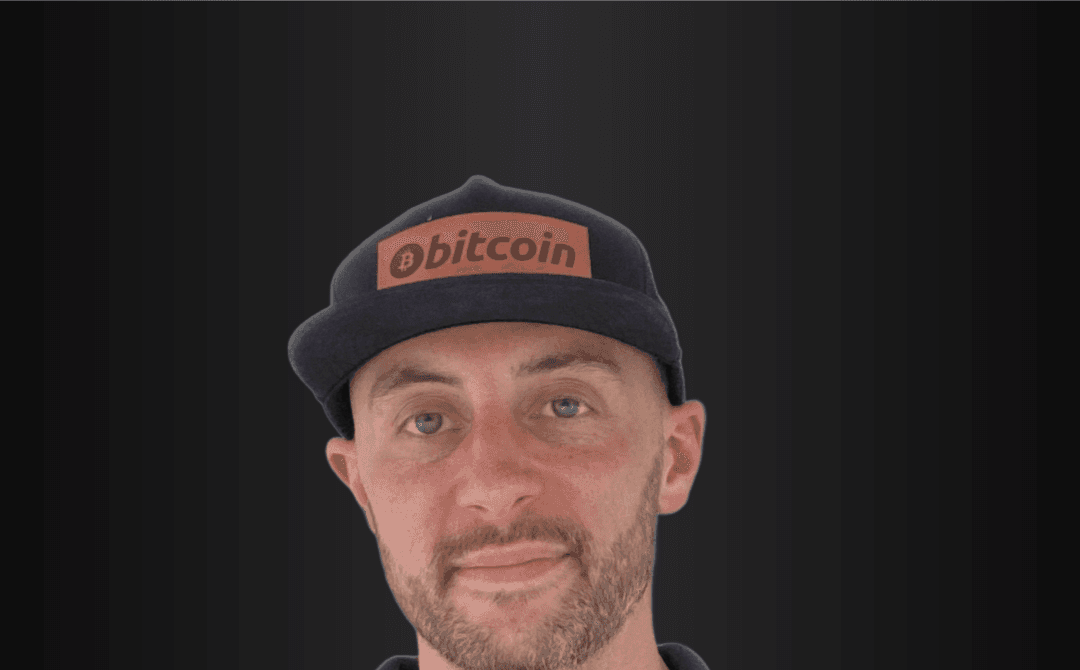
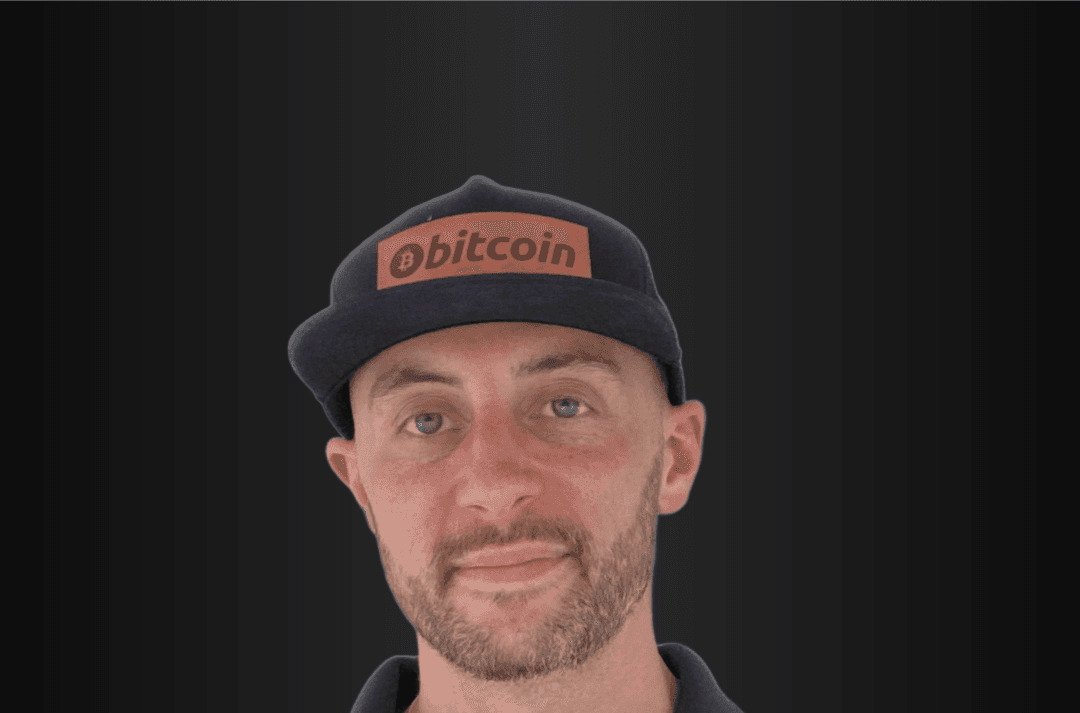
Give a bit more room below the chin on the mobile crop

Changed region(s): [[0.2444, 0.2388, 0.7028, 1.0]]

diff --git a/index.html b/index.html
@@ -5,7 +5,7 @@
   <meta name="viewport" content="width=device-width, initial-scale=1.0" />
   <title>Christian Tiberia</title>
   <link rel="icon" type="image/png" href="images/CT Monogram.png" />
-  <link rel="stylesheet" href="style.css?v=12" />
+  <link rel="stylesheet" href="style.css?v=13" />
   <link rel="preconnect" href="https://fonts.googleapis.com" />
   <link rel="preconnect" href="https://fonts.gstatic.com" crossorigin />
   <link href="https://fonts.googleapis.com/css2?family=Archivo+Black&display=swap" rel="stylesheet" />
@@ -71,7 +71,7 @@
       .hero-photo {
         position: relative;
         width: 100%;
-        aspect-ratio: 1080 / 670;
+        aspect-ratio: 1080 / 713;
         height: auto;
         background-image: url("images/Christian Mobile Hero.png");
         background-position: center center;

diff --git a/contact.html b/contact.html
@@ -5,7 +5,7 @@
   <meta name="viewport" content="width=device-width, initial-scale=1.0" />
   <title>Contact &mdash; Christian Tiberia</title>
   <link rel="icon" type="image/png" href="images/CT Monogram.png" />
-  <link rel="stylesheet" href="style.css?v=12" />
+  <link rel="stylesheet" href="style.css?v=13" />
   <link rel="preconnect" href="https://fonts.googleapis.com" />
   <link rel="preconnect" href="https://fonts.gstatic.com" crossorigin />
   <link href="https://fonts.googleapis.com/css2?family=Archivo+Black&display=swap" rel="stylesheet" />

diff --git a/about.html b/about.html
@@ -5,7 +5,7 @@
   <meta name="viewport" content="width=device-width, initial-scale=1.0" />
   <title>About &mdash; Christian Tiberia</title>
   <link rel="icon" type="image/png" href="images/CT Monogram.png" />
-  <link rel="stylesheet" href="style.css?v=12" />
+  <link rel="stylesheet" href="style.css?v=13" />
   <link rel="preconnect" href="https://fonts.googleapis.com" />
   <link rel="preconnect" href="https://fonts.gstatic.com" crossorigin />
   <link href="https://fonts.googleapis.com/css2?family=Archivo+Black&display=swap" rel="stylesheet" />
